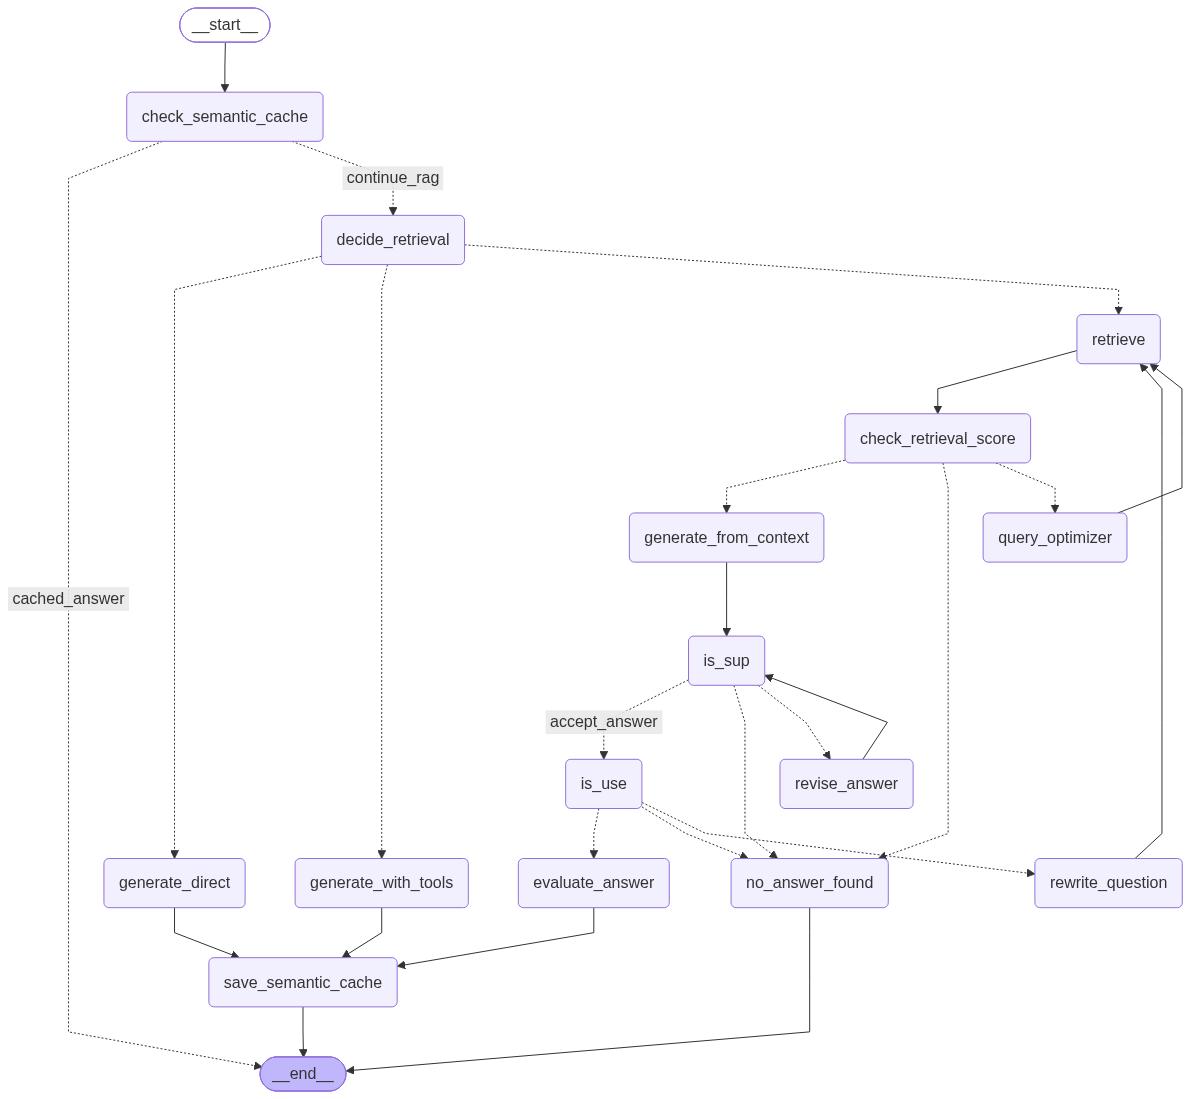
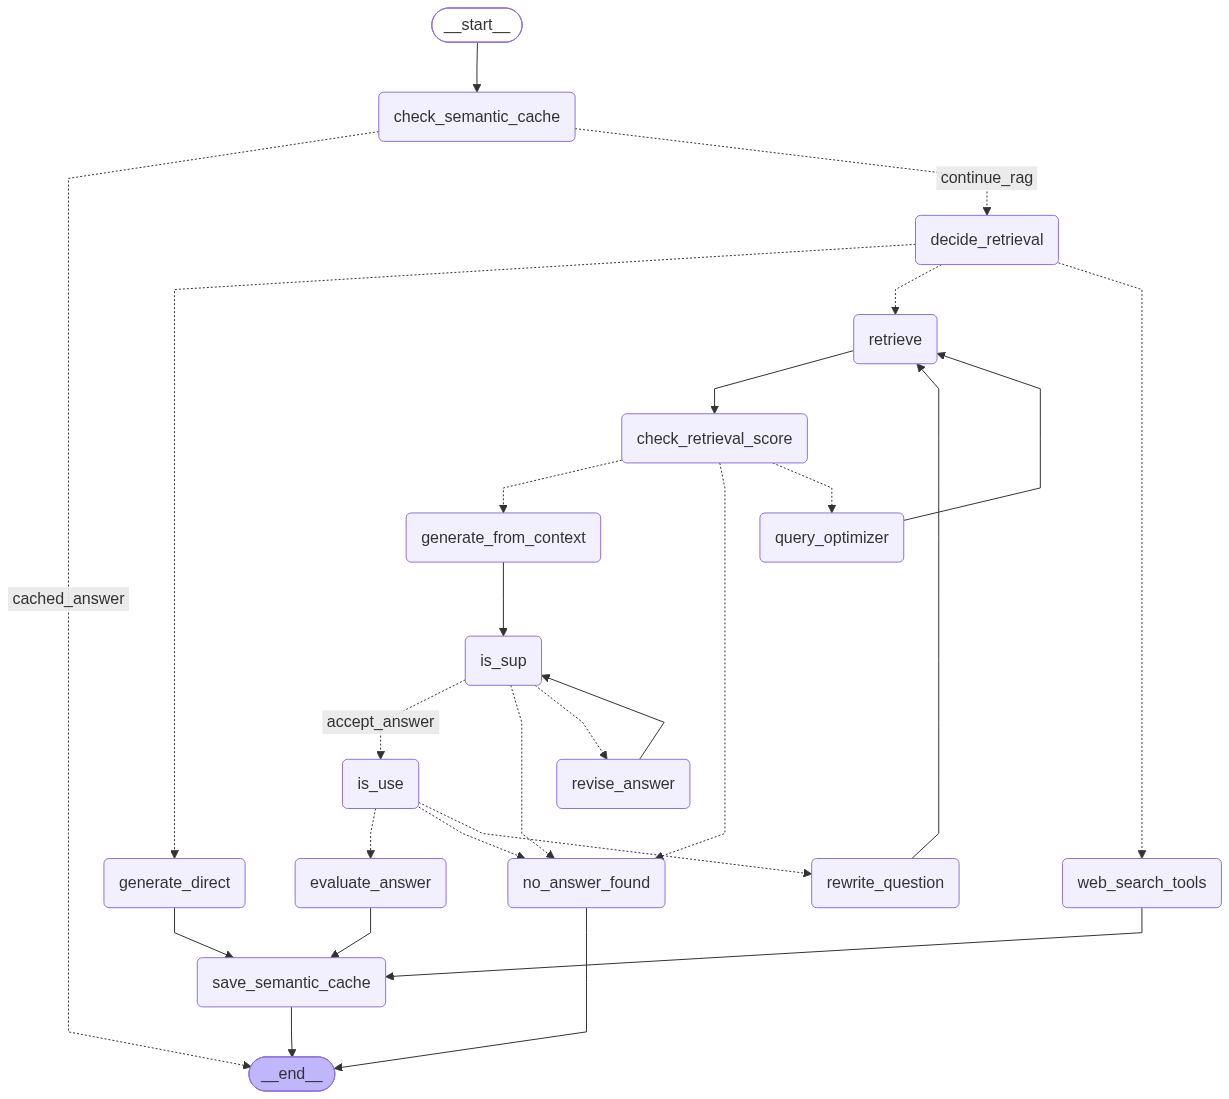
graph name add

diff --git a/src/graph/__init__.py b/src/graph/__init__.py
@@ -11,7 +11,7 @@ from src.retrive.retrieval_pipeline import (
     check_retrieval_score,
     decide_retrieval,decide_route,
     generate_direct,
-    generate_with_tools,
+    generate_with_web_tools,
     # is_relevant,
     generate_from_context,
     no_answer_found,
@@ -104,43 +104,102 @@ def create_graph(retriever, checkpointer: Optional[BaseCheckpointSaver] = None):
         if checkpointer is None:
             checkpointer = MemorySaver()
 
-        logging.info("Adding LangGraph nodes.")
+        logging.info("Adding LangGraph nodes with human-readable display names.")
 
         # ------------------------------------------
         # Cache Nodes
         # ------------------------------------------
-        g.add_node("check_semantic_cache", check_semantic_cache_node)
-        g.add_node("save_semantic_cache", save_semantic_cache_node)
+        g.add_node(
+            "check_semantic_cache", 
+            check_semantic_cache_node, 
+            name="1. Check Semantic Cache"
+        )
+        g.add_node(
+            "save_semantic_cache", 
+            save_semantic_cache_node, 
+            name="11. Save Answer to Semantic Cache"
+        )
 
         # ------------------------------------------
         # Retrieval & Routing Nodes
         # ------------------------------------------
-        # g.add_node("decide_retrieval", decide_retrieval)
-        g.add_node("decide_retrieval", decide_route)
-        g.add_node("query_optimizer", optimizer_retrieval_node)
-        g.add_node("retrieve", lambda state: retrieve(state, retriever))
-        g.add_node("check_retrieval_score", check_retrieval_score)
+        g.add_node(
+            "decide_retrieval", 
+            decide_route, 
+            name="2. Route Query (RAG / Direct / Web Tools)"
+        )
+        g.add_node(
+            "query_optimizer", 
+            optimizer_retrieval_node, 
+            name="4. Optimize Query for Retrieval"
+        )
+        g.add_node(
+            "retrieve", 
+            lambda state: retrieve(state, retriever), 
+            name="3. Retrieve Documents from Vector DB"
+        )
+        g.add_node(
+            "check_retrieval_score", 
+            check_retrieval_score, 
+            name="5. Filter Documents by Similarity Score"
+        )
 
         # ------------------------------------------
         # Generation Nodes
         # ------------------------------------------
-        g.add_node("generate_direct", generate_direct)
-        g.add_node("generate_with_tools", generate_with_tools)
-        g.add_node("generate_from_context", generate_from_context)
+        g.add_node(
+            "generate_direct", 
+            generate_direct, 
+            name="Generate Direct LLM Response"
+        )
+        g.add_node(
+            "web_search_tools", 
+            generate_with_web_tools, 
+            name="Generate Response using Web Tools"
+        )
+        g.add_node(
+            "generate_from_context", 
+            generate_from_context, 
+            name="6. Generate Answer from Context"
+        )
 
         # ------------------------------------------
         # Answer Verification & Self-Correction
         # ------------------------------------------
-        g.add_node("is_sup", is_sup)
-        g.add_node("revise_answer", revise_answer)
-        g.add_node("is_use", is_use)
-        g.add_node("rewrite_question", rewrite_question)
+        g.add_node(
+            "is_sup", 
+            is_sup, 
+            name="7. Groundedness Critic (Is Answer Supported?)"
+        )
+        g.add_node(
+            "revise_answer", 
+            revise_answer, 
+            name="8. Revise Answer Using Context Quotes"
+        )
+        g.add_node(
+            "is_use", 
+            is_use, 
+            name="9. Usefulness Critic (Is Answer Relevant?)"
+        )
+        g.add_node(
+            "rewrite_question", 
+            rewrite_question, 
+            name="12. Rewrite Query for Better Search"
+        )
 
         # ------------------------------------------
         # Evaluation & Fallback
         # ------------------------------------------
-        g.add_node("evaluate_answer", evaluate_answer_node)
-        g.add_node("no_answer_found", no_answer_found)
+        g.add_node(
+            "evaluate_answer", 
+            evaluate_answer_node, 
+            name="10. Final Answer Evaluation & Quality Metrics"
+        )
+        g.add_node(
+            "no_answer_found", 
+            no_answer_found, 
+            name="Fallback: No Answer Found"
+        )
 
         logging.info("LangGraph nodes added successfully.")
 
@@ -167,15 +226,15 @@ def create_graph(retriever, checkpointer: Optional[BaseCheckpointSaver] = None):
             "decide_retrieval",
             route_after_decide,
             {
-                "generate_direct":"generate_direct",
-                "generate_with_tools": "generate_with_tools",
+                "generate_direct": "generate_direct",
+                "web_search_tools": "web_search_tools",
                 "retrieve": "retrieve",
             },
         )
 
-        # 4. Tool Generation -> Evaluation
+        # 4. Tool / Direct Generation -> Save Cache
         g.add_edge("generate_direct", "save_semantic_cache")
-        g.add_edge("generate_with_tools", "save_semantic_cache")
+        g.add_edge("web_search_tools", "save_semantic_cache")
 
         # 5. Retrieval -> Score Check & Relevance Filtering
         g.add_edge("retrieve", "check_retrieval_score")
